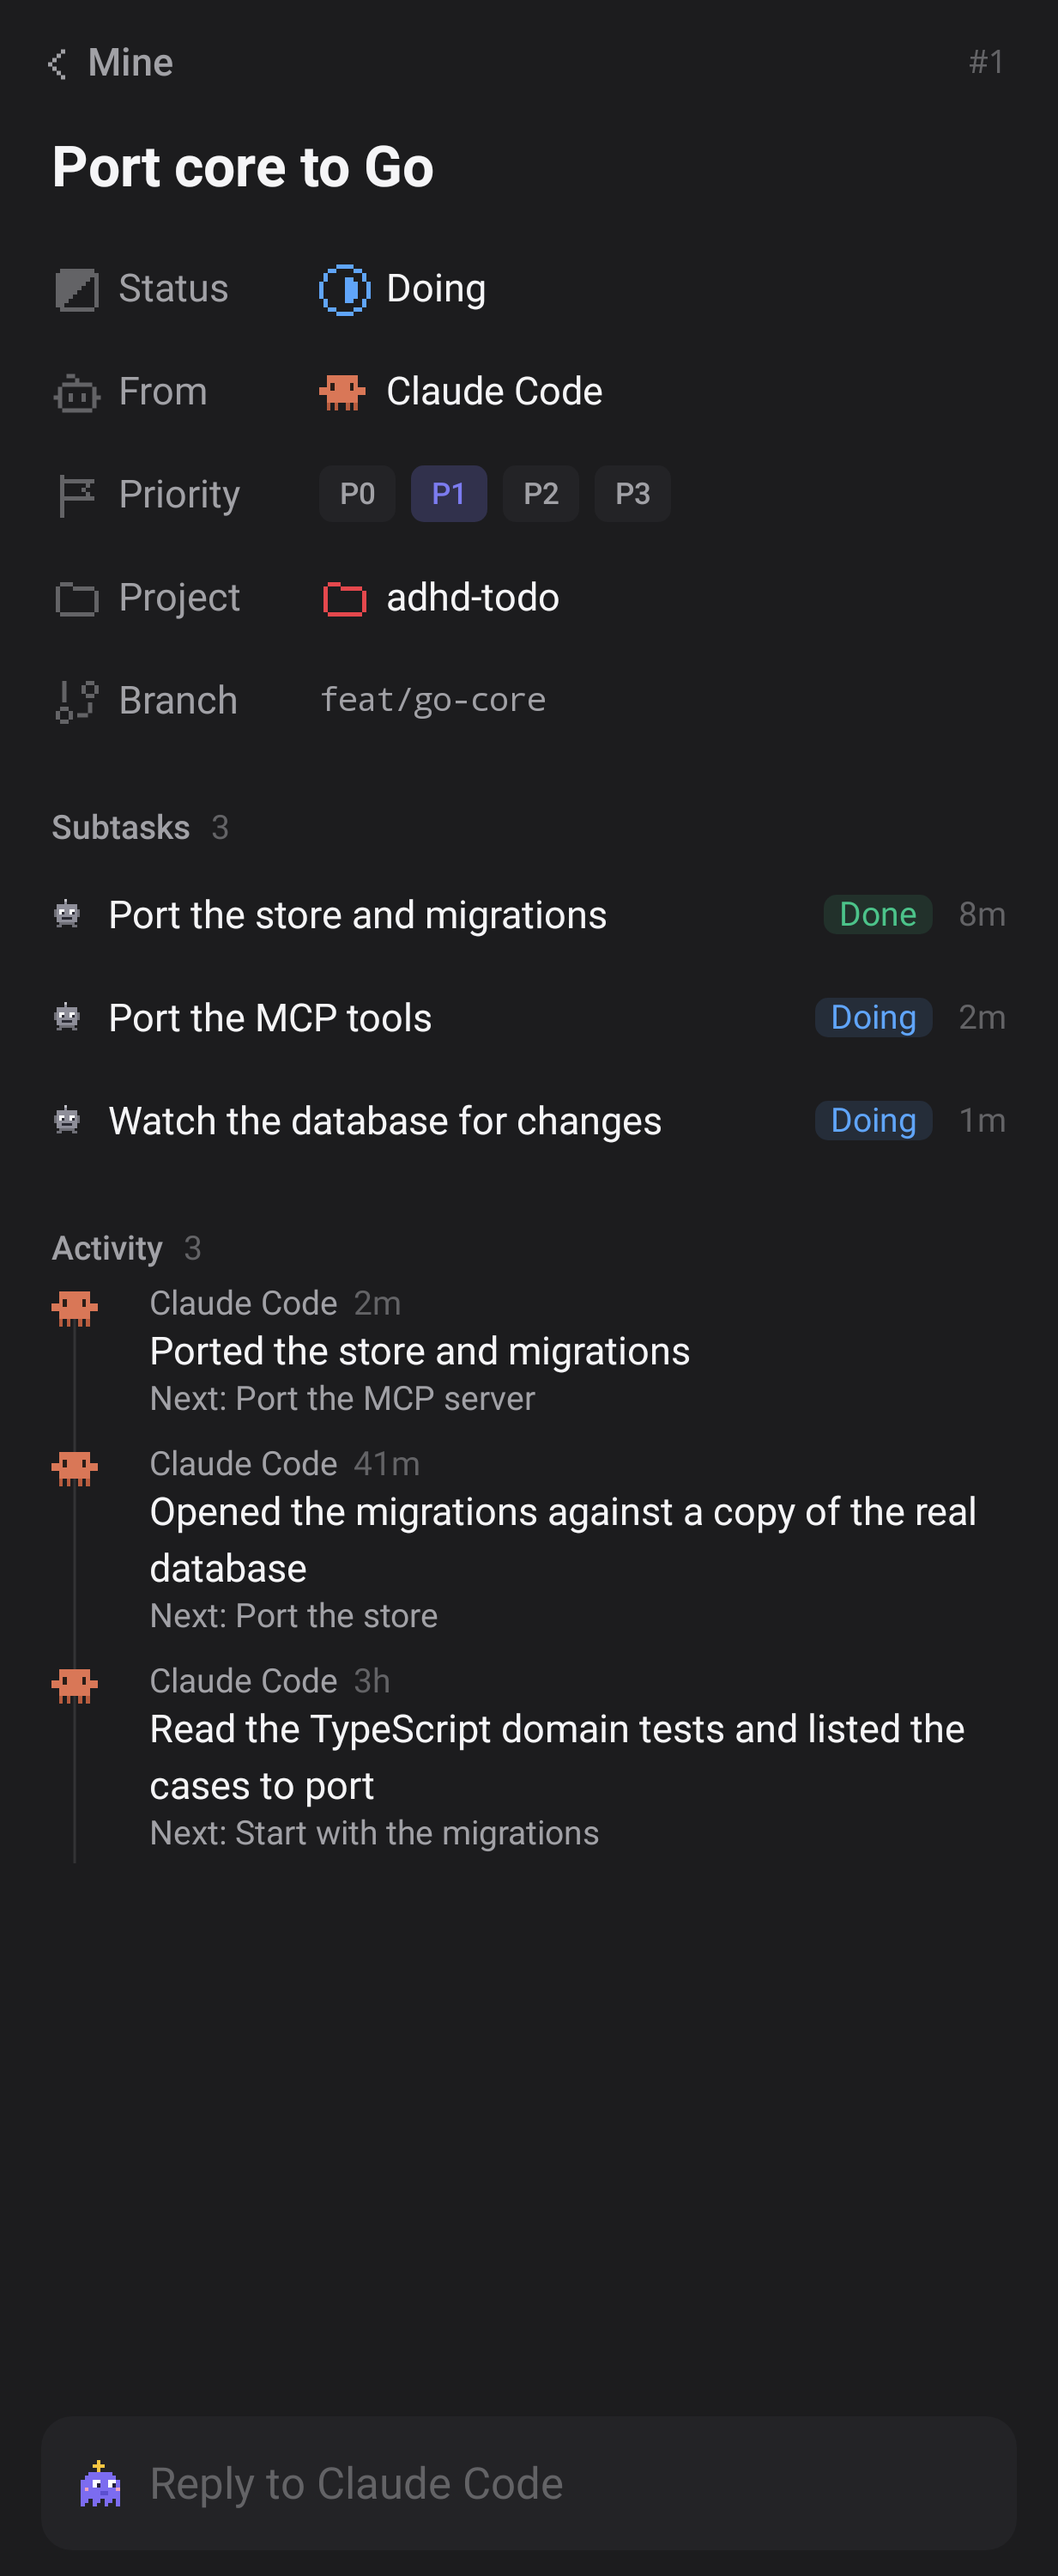
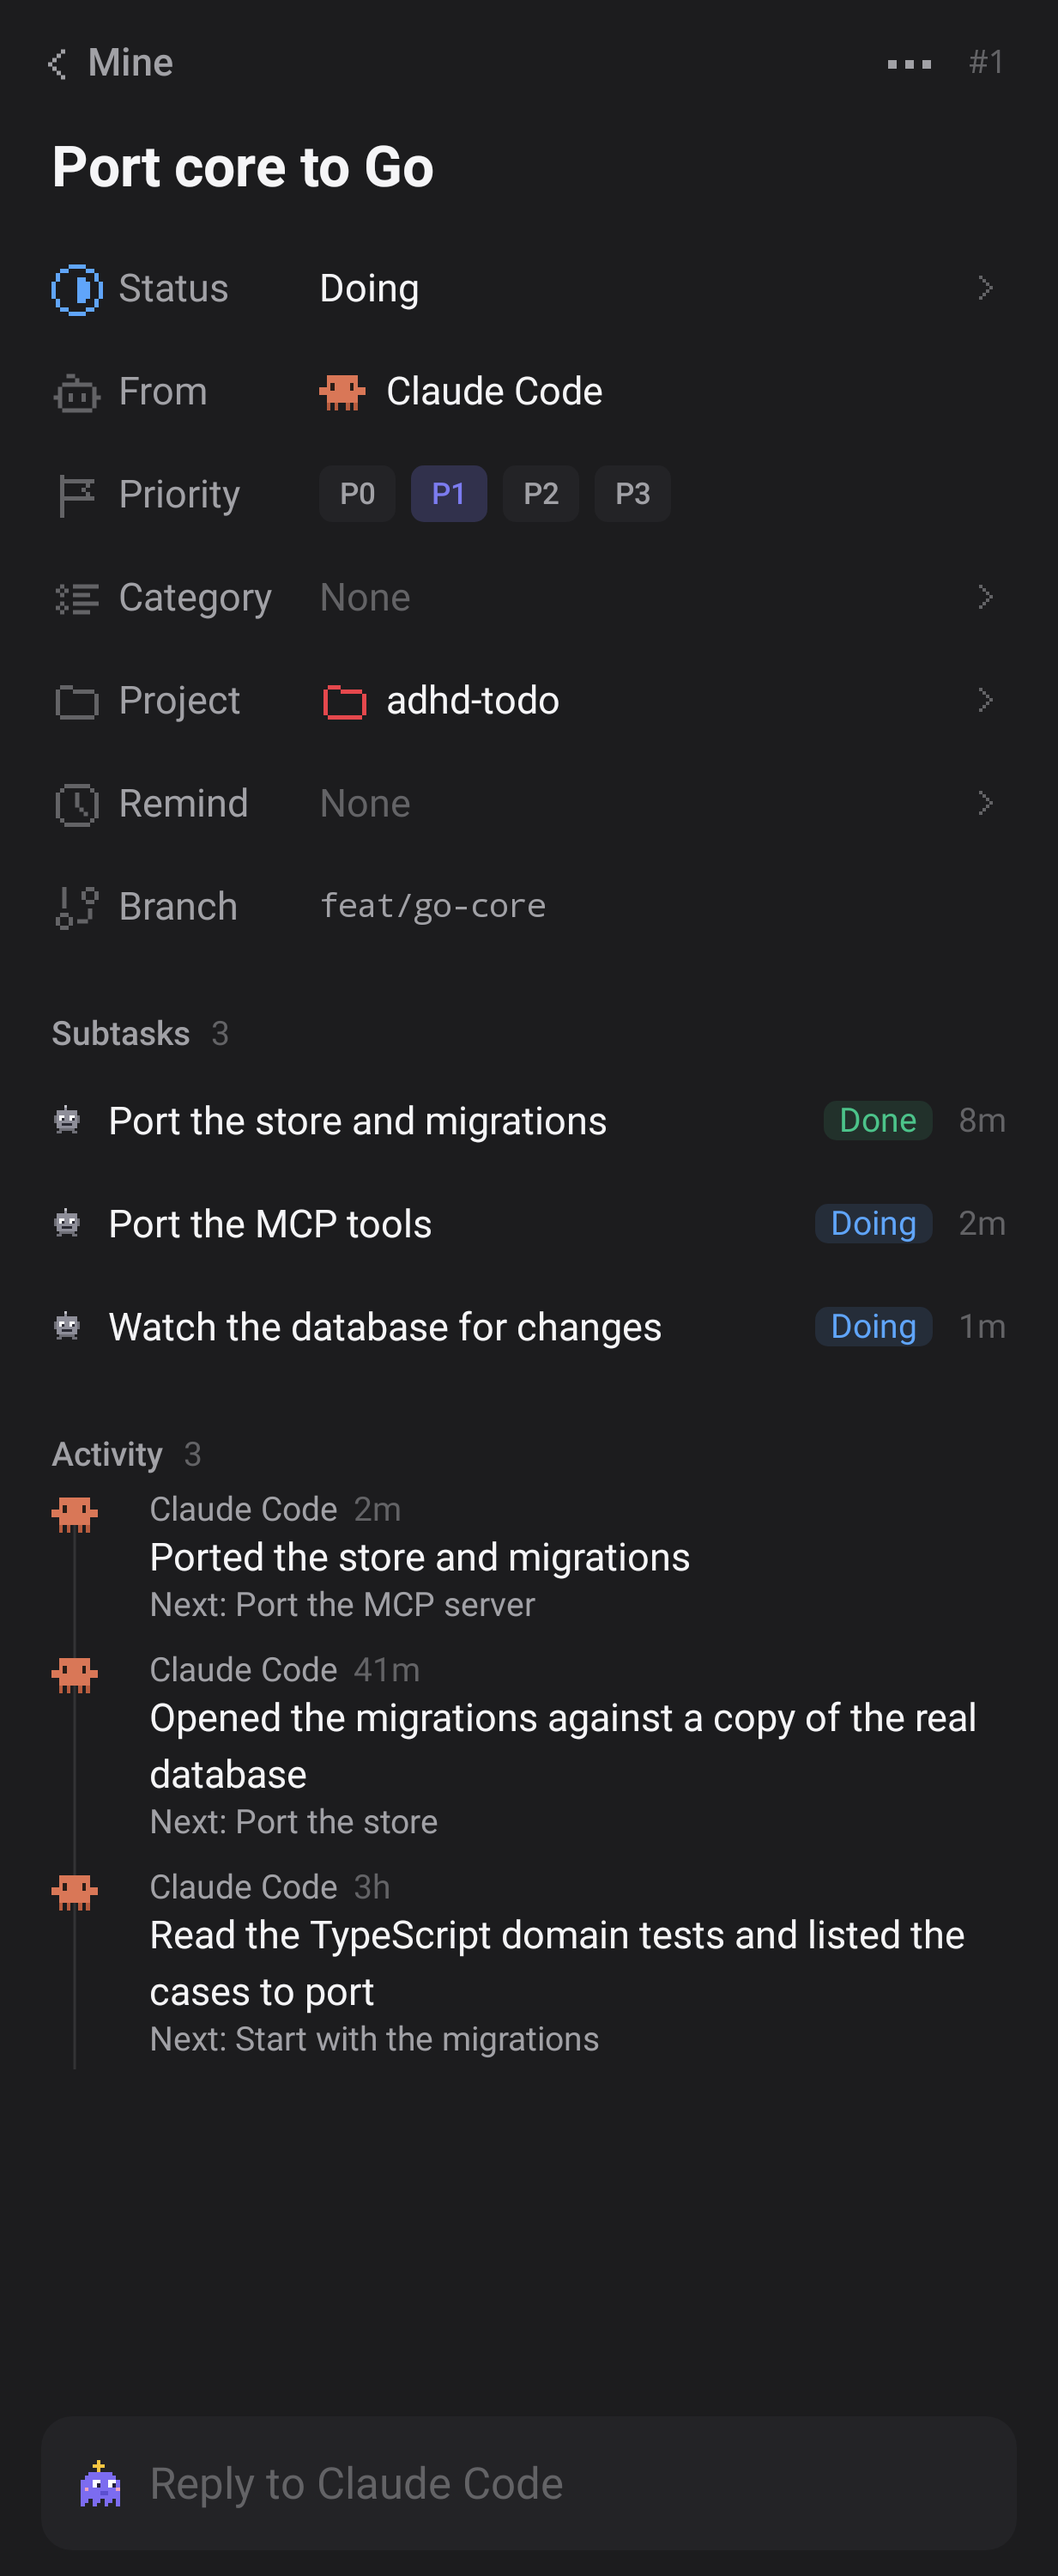
fix(android): a phone with no projects can open a task; review fixes for the task menu
Projects and Categories wrote null for an empty list, which the app's decoders refuse, so a task page
(and the menu) stayed blank on a phone with no projects. The long-press row says it can be clicked
and long clicked, the ⋯ glyph has gaps, reminders on a row use the time source, failed loads are
logged, and the screenshots include the task menu and its pages.

diff --git a/android/app/src/test/java/xyz/sriai/adhdtodo/AndroidScreensTest.kt b/android/app/src/test/java/xyz/sriai/adhdtodo/AndroidScreensTest.kt
@@ -41,6 +41,10 @@ import xyz.sriai.adhdtodo.data.SignInState
 import xyz.sriai.adhdtodo.data.SyncStatus
 import xyz.sriai.adhdtodo.data.TaskPage
 import xyz.sriai.adhdtodo.testing.FixedTime
+import xyz.sriai.adhdtodo.data.Category
+import xyz.sriai.adhdtodo.ui.TaskBackBar
+import xyz.sriai.adhdtodo.ui.TaskMenuPage
+import xyz.sriai.adhdtodo.ui.TaskMenuSheet
 import xyz.sriai.adhdtodo.testing.Golden
 import xyz.sriai.adhdtodo.testing.screenshotFile
 import xyz.sriai.adhdtodo.testing.setThemedContent
@@ -89,8 +93,8 @@ class AndroidScreensTest(private val case: ScreenCase) {
         compose.setThemedContent(night = case.night, zh = case.zh) { Screen(case.screen) }
         compose.waitForIdle()
         val file = screenshotFile(case.name)
-        if (case.screen == Screen.SYNC_CHOOSE) {
-            // The both-have-tasks sheet is a second window, so the screen capture sees it.
+        if (case.screen in sheets) {
+            // A bottom sheet is a second window, so only the screen capture sees it.
             captureScreenRoboImage(file)
         } else {
             compose.onRoot().captureRoboImage(file)
@@ -115,9 +119,14 @@ class AndroidScreensTest(private val case: ScreenCase) {
         SYNC_UPLOADING,
         SYNC_FAILED,
         SYNC_CHOOSE,
+        TASK_MENU,
+        TASK_MENU_MOVE,
+        TASK_MENU_REMIND,
     }
 
     companion object {
+        private val sheets = setOf(Screen.SYNC_CHOOSE, Screen.TASK_MENU, Screen.TASK_MENU_MOVE, Screen.TASK_MENU_REMIND)
+
         @JvmStatic
         @ParameterizedRobolectricTestRunner.Parameters(name = "{0}")
         fun cases(): List<ScreenCase> {
@@ -137,8 +146,11 @@ class AndroidScreensTest(private val case: ScreenCase) {
                 "sync-uploading" to Screen.SYNC_UPLOADING,
                 "sync-failed" to Screen.SYNC_FAILED,
                 "sync-choose" to Screen.SYNC_CHOOSE,
+                "task-menu" to Screen.TASK_MENU,
+                "task-menu-move" to Screen.TASK_MENU_MOVE,
+                "task-menu-remind" to Screen.TASK_MENU_REMIND,
             )
-            val chinese = setOf("mine", "task", "sync-signed-out")
+            val chinese = setOf("mine", "task", "sync-signed-out", "task-menu", "task-menu-remind")
             return screens.flatMap { (name, screen) ->
                 buildList {
                     add(ScreenCase("$name-light", night = false, zh = false, screen = screen))
@@ -162,6 +174,7 @@ private fun Screen(screen: AndroidScreensTest.Screen) {
     val projects = remember { Golden.load<List<Project>>("projects.golden.json") }
     val project = remember { Golden.load<ProjectPage>("project-1.golden.json") }
     val task = remember { Golden.load<TaskPage>("task-1.golden.json") }
+    val categories = remember { Golden.load<List<Category>>("categories.golden.json") }
 
     when (screen) {
         AndroidScreensTest.Screen.MINE -> TestFrame(
@@ -231,14 +244,8 @@ private fun Screen(screen: AndroidScreensTest.Screen) {
             title = stringResource(R.string.title_mine),
             tab = Tab.MINE,
             count = mine.fromAgents.size,
-            back = stringResource(R.string.title_mine),
-            backRight = {
-                Text(
-                    "#${task.task.id}",
-                    style = LocalAppType.current.mono,
-                    color = LocalTokens.current.textTertiary,
-                    modifier = Modifier.padding(end = 8.dp),
-                )
+            topBar = {
+                TaskBackBar(title = stringResource(R.string.title_mine), number = task.task.id, onBack = {}, onMenu = {})
             },
             showNav = false,
             composer = stringResource(R.string.composer_reply_to, words.agent(task.latestAgent)),
@@ -250,6 +257,28 @@ private fun Screen(screen: AndroidScreensTest.Screen) {
                 onSetPriority = {},
                 onOpenUrl = {},
                 onOpenTask = {},
+                categories = categories,
+            )
+        }
+
+        AndroidScreensTest.Screen.TASK_MENU,
+        AndroidScreensTest.Screen.TASK_MENU_MOVE,
+        AndroidScreensTest.Screen.TASK_MENU_REMIND,
+        -> {
+            Screen(AndroidScreensTest.Screen.MINE)
+            TaskMenuSheet(
+                task = task.task,
+                words = words,
+                agent = task.latestAgent,
+                categories = categories,
+                projects = projects,
+                presets = FixedTime.remindPresets,
+                initialPage = when (screen) {
+                    AndroidScreensTest.Screen.TASK_MENU_MOVE -> TaskMenuPage.Move
+                    AndroidScreensTest.Screen.TASK_MENU_REMIND -> TaskMenuPage.Remind
+                    else -> TaskMenuPage.Main
+                },
+                onDismiss = {},
             )
         }
 
@@ -343,6 +372,7 @@ private fun TestFrame(
     subtitle: String = "",
     back: String? = null,
     backRight: @Composable RowScope.() -> Unit = {},
+    topBar: (@Composable () -> Unit)? = null,
     showNav: Boolean = true,
     composer: String? = null,
     content: @Composable () -> Unit,
@@ -350,7 +380,9 @@ private fun TestFrame(
     val tokens = LocalTokens.current
     Column(Modifier.fillMaxSize().background(tokens.bg)) {
         Column(Modifier.weight(1f).statusBarsPadding().imePadding()) {
-            if (back == null) {
+            if (topBar != null) {
+                topBar()
+            } else if (back == null) {
                 PageHeader(title = title, subtitle = subtitle, syncBlocked = false, onSync = {})
             } else {
                 BackBar(title = back, onBack = {}, right = backRight)

diff --git a/android/app/src/main/java/xyz/sriai/adhdtodo/ui/LongPressRow.kt b/android/app/src/main/java/xyz/sriai/adhdtodo/ui/LongPressRow.kt
@@ -11,6 +11,9 @@ import androidx.compose.runtime.remember
 import androidx.compose.runtime.setValue
 import androidx.compose.ui.Modifier
 import androidx.compose.ui.input.pointer.pointerInput
+import androidx.compose.ui.semantics.onClick
+import androidx.compose.ui.semantics.onLongClick
+import androidx.compose.ui.semantics.semantics
 import kotlinx.coroutines.withTimeoutOrNull
 import xyz.sriai.adhdtodo.ui.theme.LocalTokens
 
@@ -20,7 +23,8 @@ private enum class PressResult { Tap, Moved, Cancel }
  * A task row that opens its task on a tap and the task menu on a long press. The row takes
  * bg.selected as soon as the long press begins. The sheet opens when the finger lifts without
  * moving; a long press that moves further than the touch slop is left for the coming drag, so it
- * does not open. A tap consumed by a child (the status glyph, a row button) is left alone.
+ * does not open. A tap consumed by a child (the status glyph, a row button) is left alone. The
+ * gesture is drawn by hand, so the row also says it can be clicked and long clicked, for TalkBack.
  */
 @Composable
 fun LongPressRow(
@@ -93,6 +97,10 @@ fun LongPressRow(
         modifier
             .fillMaxWidth()
             .then(if (pressed) Modifier.background(tokens.bgSelected) else Modifier)
-            .then(gesture),
+            .then(gesture)
+            .semantics(mergeDescendants = false) {
+                onClick { onClick(); true }
+                onLongClick { onLongPress(); true }
+            },
     )
 }

diff --git a/android/app/src/test/java/xyz/sriai/adhdtodo/testing/TestSupport.kt b/android/app/src/test/java/xyz/sriai/adhdtodo/testing/TestSupport.kt
@@ -10,6 +10,7 @@ import androidx.compose.ui.test.performTouchInput
 import androidx.compose.ui.test.up
 import org.robolectric.RuntimeEnvironment
 import xyz.sriai.adhdtodo.data.PageJson
+import xyz.sriai.adhdtodo.data.RemindPreset
 import xyz.sriai.adhdtodo.ui.theme.AdhdTheme
 import java.io.File
 import java.time.Instant
@@ -23,6 +24,14 @@ object FixedTime {
     val now: Instant = Instant.parse("2026-10-20T09:00:00Z")
     val zone: ZoneId = ZoneId.of("Asia/Shanghai")
     val clock: () -> Instant = { now }
+
+    /** The task menu's presets at that moment, as mobile/core's RemindPresets gives them (Tuesday 17:00). */
+    val remindPresets: List<RemindPreset> = listOf(
+        RemindPreset("later", Instant.parse("2026-10-20T10:00:00Z").toEpochMilli()),
+        RemindPreset("tomorrow", Instant.parse("2026-10-21T01:00:00Z").toEpochMilli()),
+        RemindPreset("monday", Instant.parse("2026-10-26T01:00:00Z").toEpochMilli()),
+        RemindPreset("weekend", Instant.parse("2026-10-24T02:00:00Z").toEpochMilli()),
+    )
 }
 
 /**

diff --git a/android/app/src/main/java/xyz/sriai/adhdtodo/ui/App.kt b/android/app/src/main/java/xyz/sriai/adhdtodo/ui/App.kt
@@ -166,7 +166,8 @@ fun App(
                 }
             } catch (e: CancellationException) {
                 throw e
-            } catch (_: Exception) {
+            } catch (e: Exception) {
+                Log.w("adhd-todo", "load failed", e)
                 null
             }
             if (loaded != null) menuData = loaded
@@ -287,7 +288,8 @@ fun App(
                     }
                 } catch (e: CancellationException) {
                     throw e
-                } catch (_: Exception) {
+                } catch (e: Exception) {
+                    Log.w("adhd-todo", "load failed", e)
                     null
                 }
                 if (loaded != null) {

diff --git a/android/app/src/main/java/xyz/sriai/adhdtodo/ui/TaskMenuSheet.kt b/android/app/src/main/java/xyz/sriai/adhdtodo/ui/TaskMenuSheet.kt
@@ -718,15 +718,15 @@ private fun MenuRow(
     }
 }
 
-/** The three 3 x 3 squares of the task page's ⋯ button, on the 12 x 12 grid. */
+/** The three 2 x 2 squares of the task page's ⋯ button, on the 12 x 12 grid. */
 @Composable
 fun MoreGlyph(size: androidx.compose.ui.unit.Dp = Dims.icon, tint: Color) {
     PixelGrid(size = size) { cell ->
         for (x in listOf(1, 5, 9)) {
             drawRect(
                 color = tint,
-                topLeft = Offset(x * cell, 4 * cell),
-                size = Size(3 * cell, 3 * cell),
+                topLeft = Offset(x * cell, 5 * cell),
+                size = Size(2 * cell, 2 * cell),
             )
         }
     }

diff --git a/android/app/src/main/java/xyz/sriai/adhdtodo/ui/Words.kt b/android/app/src/main/java/xyz/sriai/adhdtodo/ui/Words.kt
@@ -174,7 +174,7 @@ class Words(
     /** A set reminder as a row's value: the time today, Tomorrow at 9:00, or Oct 26 at 9:00. */
     fun reminderValue(value: String?): String {
         val at = instant(value)?.atZone(zone) ?: return ""
-        val today = LocalDate.now(zone)
+        val today = timeSource().atZone(zone).toLocalDate()
         val time = remindClock.format(at)
         return when (at.toLocalDate()) {
             today -> time

diff --git a/mobile/core/pages.go b/mobile/core/pages.go
@@ -54,7 +54,7 @@ func (c *Core) Projects() (string, error) {
 	if err != nil {
 		return "", shortError(err)
 	}
-	return marshal(snap.Projects)
+	return marshal(emptyIfNil(snap.Projects))
 }
 
 // Categories returns the snapshot's categories as JSON: a []data.Category in the user's order.
@@ -65,7 +65,7 @@ func (c *Core) Categories() (string, error) {
 	if err != nil {
 		return "", shortError(err)
 	}
-	return marshal(snap.Categories)
+	return marshal(emptyIfNil(snap.Categories))
 }
 
 // remindPresetJSON is one choice of the Remind me page: its kind and the moment it means in Unix
@@ -192,6 +192,15 @@ func (c *Core) Search(query string) (string, error) {
 		tasks = []data.Task{}
 	}
 	return marshal(tasks)
+}
+
+// emptyIfNil keeps an empty list a JSON array: encoding/json writes a nil slice as null, which the
+// app's list decoders refuse, so a phone with no projects could not open a task.
+func emptyIfNil[T any](list []T) []T {
+	if list == nil {
+		return []T{}
+	}
+	return list
 }
 
 // marshal is the one encoder of page data.

diff --git a/mobile/core/empty_lists_test.go b/mobile/core/empty_lists_test.go
@@ -1,0 +1,24 @@
+package core
+
+import "testing"
+
+// A new database has no projects; Projects and Categories must still be JSON arrays, or the app's
+// list decoders fail and a task page or the task menu stays empty.
+func TestListsOfANewDatabaseAreArrays(t *testing.T) {
+	phone, err := Open(t.TempDir(), nil)
+	if err != nil {
+		t.Fatal(err)
+	}
+	t.Cleanup(func() { _ = phone.Close() })
+	for name, read := range map[string]func() (string, error){
+		"Projects": phone.Projects, "Categories": phone.Categories,
+	} {
+		got, err := read()
+		if err != nil {
+			t.Fatalf("%s: %v", name, err)
+		}
+		if got == "null" || got == "" || got[0] != '[' {
+			t.Errorf("%s = %s, want a JSON array", name, got)
+		}
+	}
+}
